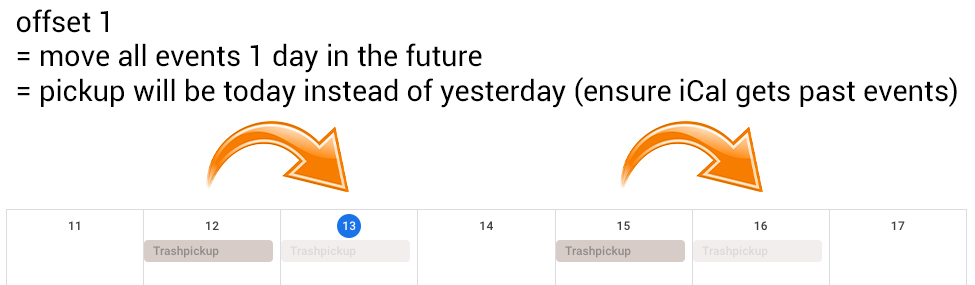
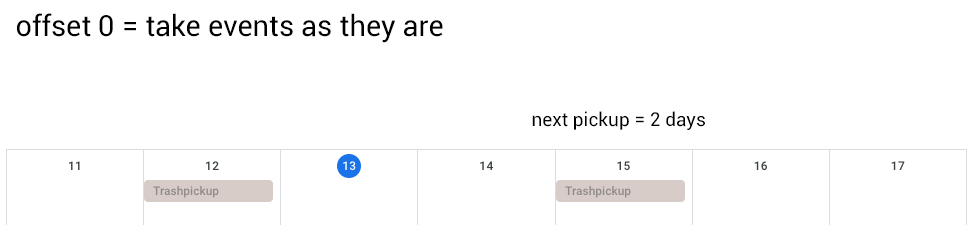
Offset Example

diff --git a/README.md b/README.md
@@ -189,7 +189,17 @@ Scans an ical calendar to calculate the days left until next trash pickup
 
 ## Offset configuration
 
+## default 0
+
 ![Offset example](images/offsetExample.jpg)
+
+## example 1
+
+![Offset example](images/offsetExample1.jpg)
+
+## example -1
+
+![Offset example](images/offsetExample2.jpg)
 
 ## Changelog
 
